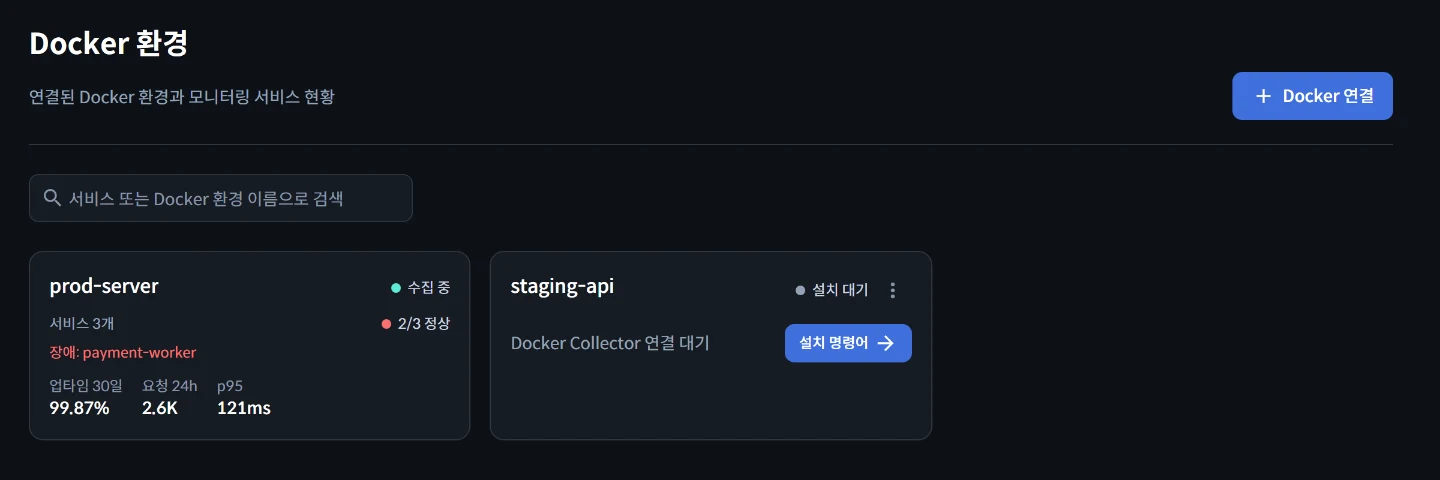
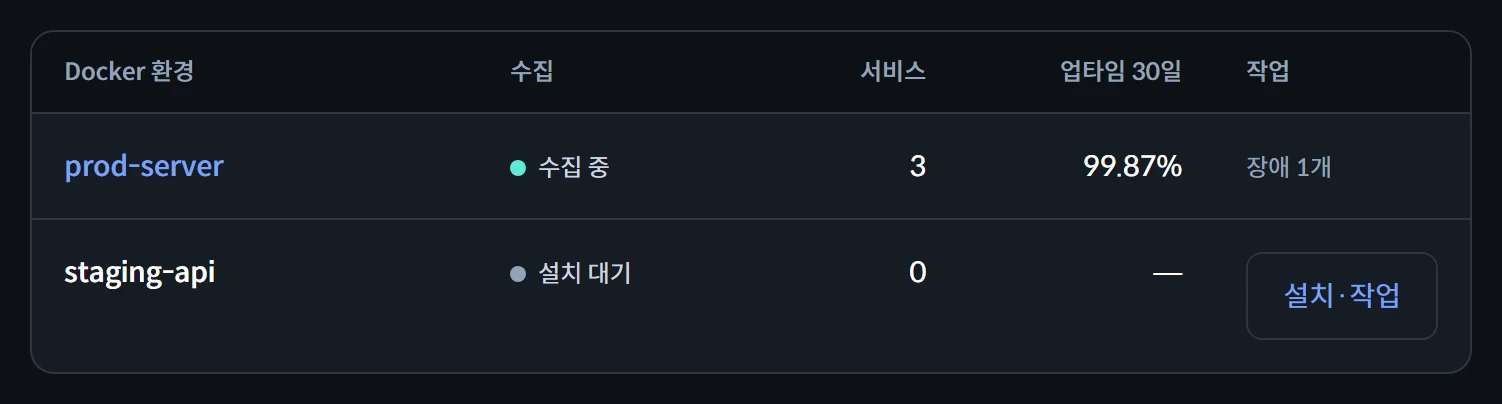
docs: readable Quick Start commands, screenshot, and next step
- Wrap the Compose download and install commands so they fit the
  desktop column; show the copy button on touch devices and drop the
  edge-to-edge side borders of mobile code blocks.
- Recapture the Quick Start screenshot as the environments table at
  1024px (the list now defaults to a table), so badges read near 1:1.
- Move profile-to-component details into a step 2 table, name the
  everyup-agent internal name, drop "(OBI)", and end with one
  recommended next step (notifications).
- Explain retention value formats (DAYS integers vs d/h/m units).

diff --git a/docs/.vitepress/theme/custom.css b/docs/.vitepress/theme/custom.css
@@ -54,6 +54,22 @@
 .vp-doc div[class*='language-'] {
   border: 1px solid var(--vp-c-divider);
 }
+/* 모바일에서 코드 블록은 화면 끝까지 붙는다. 좌우 보더는 화면 가장자리에 선으로만 남는다(목록 안은 왼쪽이 들여써져 그대로). */
+@media (max-width: 639px) {
+  .vp-doc div[class*='language-']:not(li div) {
+    border-left: 0;
+    border-right: 0;
+  }
+}
+/* 복사 버튼은 hover해야 보인다. 터치 기기에서는 늘 보이게 하고, 같은 자리의 언어 라벨은 숨긴다. */
+@media (hover: none) {
+  .vp-doc [class*='language-'] > button.copy {
+    opacity: 1;
+  }
+  .vp-doc [class*='language-'] > span.lang {
+    opacity: 0;
+  }
+}
 
 .dark {
   /* 제품 다크 토큰. 다크 스크린샷 바탕(#0d1117)과 페이지 바탕이 같아져 경계가 생기지 않는다 */

diff --git a/docs/en/guide/quickstart.md b/docs/en/guide/quickstart.md
@@ -19,7 +19,8 @@ step 4.
 
 ```bash
 mkdir everyup && cd everyup
-curl -O https://raw.githubusercontent.com/ai-turn/everyup/main/web/docker-compose.yml
+curl -O \
+https://raw.githubusercontent.com/ai-turn/everyup/main/web/docker-compose.yml
 ```
 
 ### Set the public address (optional) {#public-url}
@@ -78,9 +79,15 @@ If it does not open, see [The dashboard does not open](./troubleshooting#web-not
 **In the browser**, in the dashboard, open **Docker 환경** (Docker environments) and click **Docker 연결** (Connect
 Docker) at the top right. Name the environment, then choose its collection scope:
 
-- **전체** (All) configures uptime, logs, infrastructure, API tracing, and metrics.
-- **기본** (Basic) collects Docker service state and logs only.
-- **사용자 지정** (Custom) installs only the components and permissions required for the capabilities you select.
+| Scope | Collects | Installs |
+|---|---|---|
+| **전체** (All) | Uptime, logs, infrastructure, API tracing, metrics | Docker Collector, eBPF Observer |
+| **기본** (Basic) | Docker service state, logs | Docker Collector |
+| **사용자 지정** (Custom) | Only what you select (and only the permissions it needs) | Docker Collector, plus the eBPF Observer if you select API tracing |
+
+The [eBPF Observer](./ebpf-observer) records API latency and traces without changing your
+application. It runs with permissions separate from the Docker Collector and discovers container
+processes automatically, so there is no port list to maintain.
 
 ::: details Custom profiles without uptime collection
 If a custom profile omits Docker uptime collection (for example, a metrics-only profile), apps
@@ -92,7 +99,8 @@ Generate a token for each app and set its `Authorization` header. See the
 The connection flow then shows an installation command shaped like this:
 
 ```bash
-curl -fsSL 'https://<Web address>/api/v1/agents/install.sh' | sudo sh -s -- 'https://<Web address>' '<join code>'
+curl -fsSL 'https://<Web address>/api/v1/agents/install.sh' |
+  sudo sh -s -- 'https://<Web address>' '<join code>'
 ```
 
 ::: warning The join code works once, for ten minutes
@@ -108,7 +116,8 @@ Copy the displayed command and run it **on the monitored Linux Docker server**.
 The installer checks Docker and Compose, writes the bundle under `/opt/everyup-agent`, backs up
 any previous configuration as `compose.yaml.bak.<timestamp>`, and starts only the components
 required by the selected scope. Your application Compose file, images, ports, and containers are
-left unchanged.
+left unchanged. The `everyup-agent` in the path and container name is the Docker Collector's
+internal name.
 
 When it finishes, the last lines read:
 
@@ -120,11 +129,6 @@ Check status: docker compose --env-file /opt/everyup-agent/.env -f /opt/everyup-
 
 If it stops earlier, look up the last error line in [Troubleshooting](./troubleshooting).
 
-- The **전체** profile, or a custom profile with API tracing, starts the Docker Collector together
-  with an isolated [eBPF Observer](./ebpf-observer) (OBI), which records API latency and traces
-  without changing your application.
-- The **기본** profile collects Docker service state and logs without the eBPF Observer.
-
 To set it up by hand instead, see
 [`agent/docker-compose.yml`](https://github.com/ai-turn/everyup/blob/main/agent/docker-compose.yml)
 and the [Docker Collector configuration](../reference/collector).
@@ -135,20 +139,22 @@ and the [Docker Collector configuration](../reference/collector).
 (awaiting install) to **수집 중** (collecting). When uptime collection is enabled, the containers
 on that server also appear as services.
 
-![The Docker environments screen. The prod-server card shows 수집 중 (collecting), the staging-api card shows 설치 대기 (awaiting install), and the Docker 연결 button sits at the top right.](/images/quickstart-docker-env-light.webp){.only-light width=1440 height=480}
-![The Docker environments screen. The prod-server card shows 수집 중 (collecting), the staging-api card shows 설치 대기 (awaiting install), and the Docker 연결 button sits at the top right.](/images/quickstart-docker-env-dark.webp){.only-dark width=1440 height=480}
+![The Docker environments list. prod-server shows 수집 중 (collecting) and staging-api shows 설치 대기 (awaiting install).](/images/quickstart-docker-env-light.webp){.only-light width=751 height=202}
+![The Docker environments list. prod-server shows 수집 중 (collecting) and staging-api shows 설치 대기 (awaiting install).](/images/quickstart-docker-env-dark.webp){.only-dark width=751 height=202}
 
 <p class="screenshot-caption"><strong>수집 중</strong> means connected; <strong>설치 대기</strong> means the Collector has not connected yet. The dashboard UI is Korean only.</p>
 
-When API tracing is enabled, the eBPF Observer discovers container processes automatically, so
-there is no port list to maintain. If the environment stays at **설치 대기**, see
-[Troubleshooting](./troubleshooting#not-collecting).
+If the environment stays at **설치 대기**, see [Troubleshooting](./troubleshooting#not-collecting).
 
 ## Next steps
+
+Once collection has started, set up [Notifications](./notifications). Connect a Telegram, Discord,
+or Slack channel and create alert rules to hear about failures as soon as they happen.
+
+Other guides:
 
 - [Monitoring setup](./monitoring-setup): diagnose collection, add capabilities, connect OpenTelemetry directly
 - [Automatic eBPF Observer](./ebpf-observer): API latency and traces
 - [Header & body capture](./otel-instrumentation): see why a request failed
 - [Uptime monitors](./uptime-monitors): check URLs and TCP ports outside Docker
-- [Notifications](./notifications): set up channels and alert rules to get alerts in Telegram, Discord, or Slack
 - [Upgrade and uninstall](./upgrade-uninstall): apply new versions, undo an installation

diff --git a/docs/en/reference/web.md b/docs/en/reference/web.md
@@ -15,7 +15,8 @@ Run the dashboard without cloning the repository:
 
 ```bash
 mkdir everyup && cd everyup
-curl -O https://raw.githubusercontent.com/ai-turn/everyup/main/web/docker-compose.yml
+curl -O \
+https://raw.githubusercontent.com/ai-turn/everyup/main/web/docker-compose.yml
 docker compose up -d
 ```
 
@@ -79,6 +80,10 @@ EVERYUP_ENCRYPTION_KEY=<output of openssl rand -hex 32>
   if it is shorter than 8 characters or is `admin`, `password`, or `changeme`
 
 ### Retention
+
+The value format depends on the variable name. Variables ending in `DAYS` take a whole number of
+days (`14`); the other three take a unit suffix such as `7d`, `12h`, or `30m`. Without a unit, the
+value is read as days.
 
 - **`EVERYUP_RETENTION_METRICS`** · default `7d`\
   Health-check metrics
